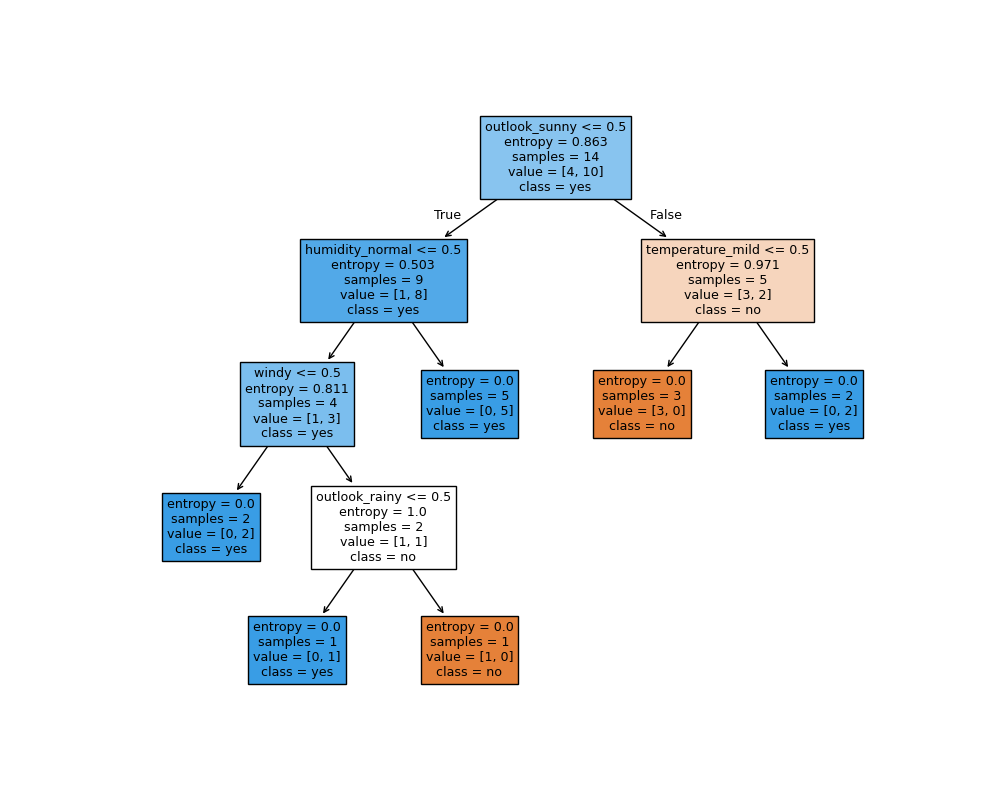
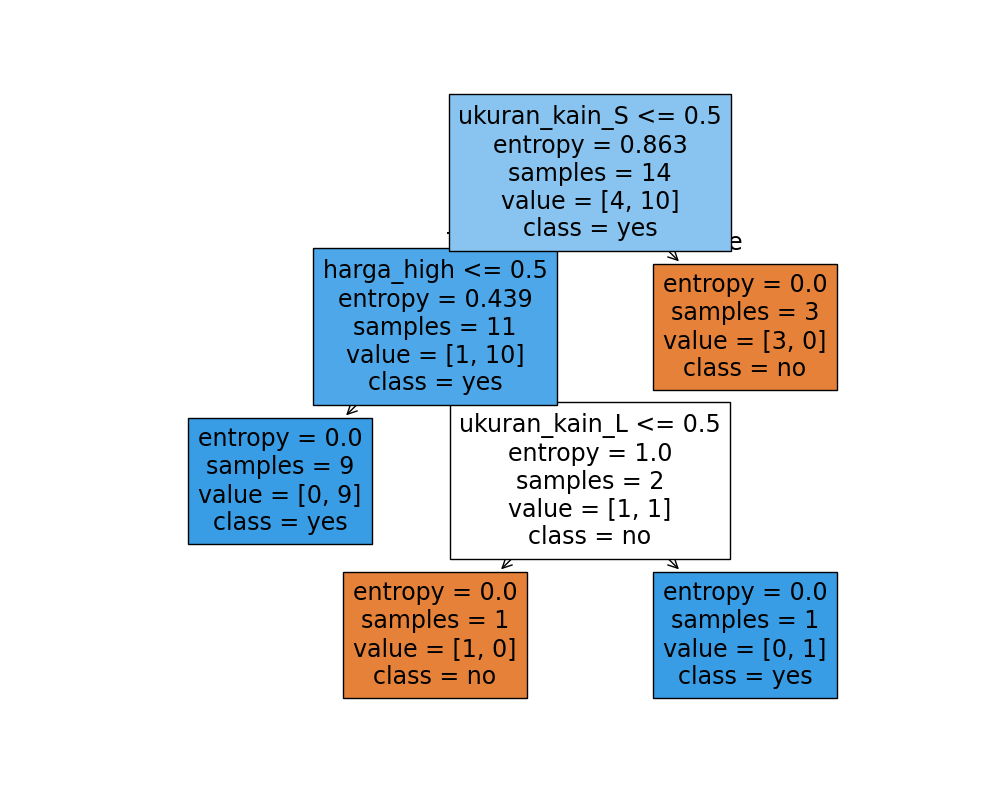
model

Changed region(s): [[0.155, 0.0938, 0.868, 0.875]]

diff --git a/penjualan_kerudung/dashboard/templates/model/index.html b/penjualan_kerudung/dashboard/templates/model/index.html
@@ -1,54 +1,100 @@
-{% extends 'main.html' %}
-{% block content %}
-{% load static %}
-
+{% extends 'main.html' %} {% block content %} {% load static %}
 
 <div class="page-content">
   <div class="card">
     <div class="card-header">
-      <h5 class="card-title">Model</h5>
+      <h5 class="card-title">Model (Prediksi)</h5>
     </div>
     <div class="card-body">
-      <div class="">
-        <h5 class="card-title mb-3">Tabel Model</h5>
-        <table id="example" class="table table-striped table-bordered" style="width:100%">
-          <thead class="text-center">
-            <tr class="table-success">
-              <th scope="col">#</th>
-              <th scope="col">Name</th>
-              <th scope="col">Email</th>
-              <th scope="col">Action</th>
-            </tr>
-          </thead>
-          <tbody class="text-center">
-            <tr>
-              <th scope="row">1</th>
-              <td>Mark</td>
-              <td>Otto</td>
-              <td>@mdo</td>
-            </tr>
-            <tr>
-              <th scope="row">2</th>
-              <td>Jacob</td>
-              <td>Thornton</td>
-              <td>@fat</td>
-            </tr>
-            <tr>
-              <th scope="row">3</th>
-              <td>Larry</td>
-              <td>the Bird</td>
-              <td>@twitter</td>
-            </tr>
-          </tbody>
-        </table>
+      <div class="form">
+        <form method="POST">
+          {% csrf_token %}
+          <div class="row">
+            <div class="col">
+              <div class="mb-3">
+                <label for="fileInput" class="form-label">Brand</label>
+                <select class="form-select" name="brand" aria-label="select">
+                  <option selected disabled>-- Pilih Brand --</option>
+                  <option value="A">A</option>
+                  <option value="B">B</option>
+                  <option value="C">C</option>
+                </select>
+              </div>
+            </div>
+            <div class="col">
+              <div class="mb-3">
+                <label for="fileInput" class="form-label">Jenis</label>
+                <select class="form-select" name="jenis" aria-label="select">
+                  <option selected disabled>-- Pilih Jenis --</option>
+                  <option value="t-shirt">T-Shirt</option>
+                  <option value="dress">Dress</option>
+                  <option value="pants">Pants</option>
+                  <option value="skirt">Skirt</option>
+                </select>
+              </div>
+            </div>
+            <div class="col">
+              <div class="mb-3">
+                <label for="fileInput" class="form-label">Bahan</label>
+                <select class="form-select" name="bahan" aria-label="select">
+                  <option selected disabled>-- Pilih Bahan --</option>
+                  <option value="cotton">Cotton</option>
+                  <option value="silk">Silk</option>
+                  <option value="denim">Denim</option>
+                  <option value="polyester">Polyester</option>
+                </select>
+              </div>
+            </div>
+            <div class="col">
+              <div class="mb-3">
+                <label for="fileInput" class="form-label">Harga</label>
+                <select class="form-select" name="harga" aria-label="select">
+                  <option selected disabled>-- Pilih Harga --</option>
+                  <option value="high">High</option>
+                  <option value="medium">Medium</option>
+                  <option value="low">Low</option>
+                </select>
+              </div>
+            </div>
+            <div class="col">
+              <div class="mb-3">
+                <label for="fileInput" class="form-label">Ukuran Kain</label>
+                <select
+                  class="form-select"
+                  name="ukuran_kain"
+                  aria-label="select"
+                >
+                  <option selected disabled>-- Pilih Ukuran Kain --</option>
+                  <option value="yes">Yes</option>
+                  <option value="no">No</option>
+                </select>
+              </div>
+            </div>
+          </div>
+          <button type="submit" class="btn btn-primary btn-sm">Prediksi</button>
+        </form>
       </div>
+    </div>
+  </div>
+  <div class="card mt-2">
+    <div class="card-header">
+      <h5 class="card-title">Pohon Keputusan</h5>
+    </div>
+    <div class="card-body">
+      {% if prediction %}
+      <h2>Hasil Prediksi: <span class="text-capitalize">{{ prediction }}</span></h2>
+      <img
+        src="/static/tree_visualization.png"
+        alt="Visualisasi Pohon Keputusan"
+      />
+      {% endif %}
     </div>
   </div>
 </div>
 
 <script>
-  document.addEventListener('DOMContentLoaded', function () {
-    $('#example').DataTable();
+  document.addEventListener("DOMContentLoaded", function () {
+    $("#example").DataTable();
   });
 </script>
 {% endblock %}

diff --git a/penjualan_kerudung/dashboard/ml_models.py b/penjualan_kerudung/dashboard/ml_models.py
@@ -5,9 +5,8 @@ import matplotlib.pyplot as plt
 import os
 
 # Fungsi untuk melatih model
-
-
 def train_model():
+    # Data baru dari gambar
     data = {
         'brand': ['A', 'A', 'B', 'C', 'C', 'C', 'B', 'A', 'A', 'C', 'A', 'B', 'B', 'C'],
         'jenis': ['t-shirt', 't-shirt', 'dress', 'pants', 'skirt', 'skirt', 'dress', 'pants', 't-shirt', 'pants', 't-shirt', 'dress', 't-shirt', 'skirt'],
@@ -20,8 +19,7 @@ def train_model():
     df = pd.DataFrame(data)
 
     # Encode categorical variables
-    df_encoded = pd.get_dummies(
-        df[['brand', 'jenis', 'bahan', 'harga', 'ukuran_kain']])
+    df_encoded = pd.get_dummies(df[['brand', 'jenis', 'bahan', 'harga', 'ukuran_kain']])
     X = df_encoded
     y = df['play']
 
@@ -32,26 +30,23 @@ def train_model():
     return clf, X.columns
 
 # Fungsi untuk prediksi
-
-
 def predict_sales(model, feature_columns, input_data):
     df_input = pd.DataFrame([input_data])
     df_input_encoded = pd.get_dummies(df_input)
-    df_input_encoded = df_input_encoded.reindex(
-        columns=feature_columns, fill_value=0)
+    df_input_encoded = df_input_encoded.reindex(columns=feature_columns, fill_value=0)
     prediction = model.predict(df_input_encoded)
     return prediction[0]
 
 # Fungsi untuk visualisasi pohon keputusan
-
-
 def plot_tree(model, feature_names, class_names):
-    fig = plt.figure(figsize=(10, 8))
-    _ = tree.plot_tree(model, feature_names=feature_names,
-                    class_names=class_names, filled=True)
+    fig = plt.figure(figsize=(20, 10))  # Ubah ukuran gambar
+    _ = tree.plot_tree(model, feature_names=feature_names, class_names=class_names, filled=True, rounded=True, fontsize=10)  # Atur parameter visualisasi
+    
     # Simpan gambar di folder static
     static_dir = os.path.join(os.path.dirname(__file__), 'static')
     if not os.path.exists(static_dir):
         os.makedirs(static_dir)
     plt.savefig(os.path.join(static_dir, 'tree_visualization.png'))
     plt.close(fig)
+
+

diff --git a/penjualan_kerudung/dashboard/views.py b/penjualan_kerudung/dashboard/views.py
@@ -2,8 +2,10 @@ from django.shortcuts import render, redirect
 from django.contrib.auth.decorators import login_required
 from django.core.files.storage import FileSystemStorage
 from prediction.models import PenjualanKerudung
+from .ml_models import train_model, predict_sales, plot_tree
 from django.contrib import messages
 import pandas as pd
+
 # Create your views here.
 
 
@@ -60,9 +62,21 @@ def preprocessing(request):
     return render(request, 'preprocessing/index.html')
 
 
+model, feature_columns = train_model()
+plot_tree(model, feature_columns, model.classes_)
 @login_required
 def models(request):
-    return render(request, 'model/index.html')
+    prediction = None
+    if request.method == 'POST':
+        brand = request.POST.get('brand')
+        jenis = request.POST.get('jenis')
+        bahan = request.POST.get('bahan')
+        harga = request.POST.get('harga') == 'TRUE'
+        ukuran_kain = request.POST.get('ukuran_kain')
+        input_data = {'brand': brand, 'jenis': jenis,
+                    'bahan': bahan, 'harga': harga, 'ukuran_kain': ukuran_kain}
+        prediction = predict_sales(model, feature_columns, input_data)
+    return render(request, 'model/index.html', {'prediction': prediction})
 
 
 @login_required
